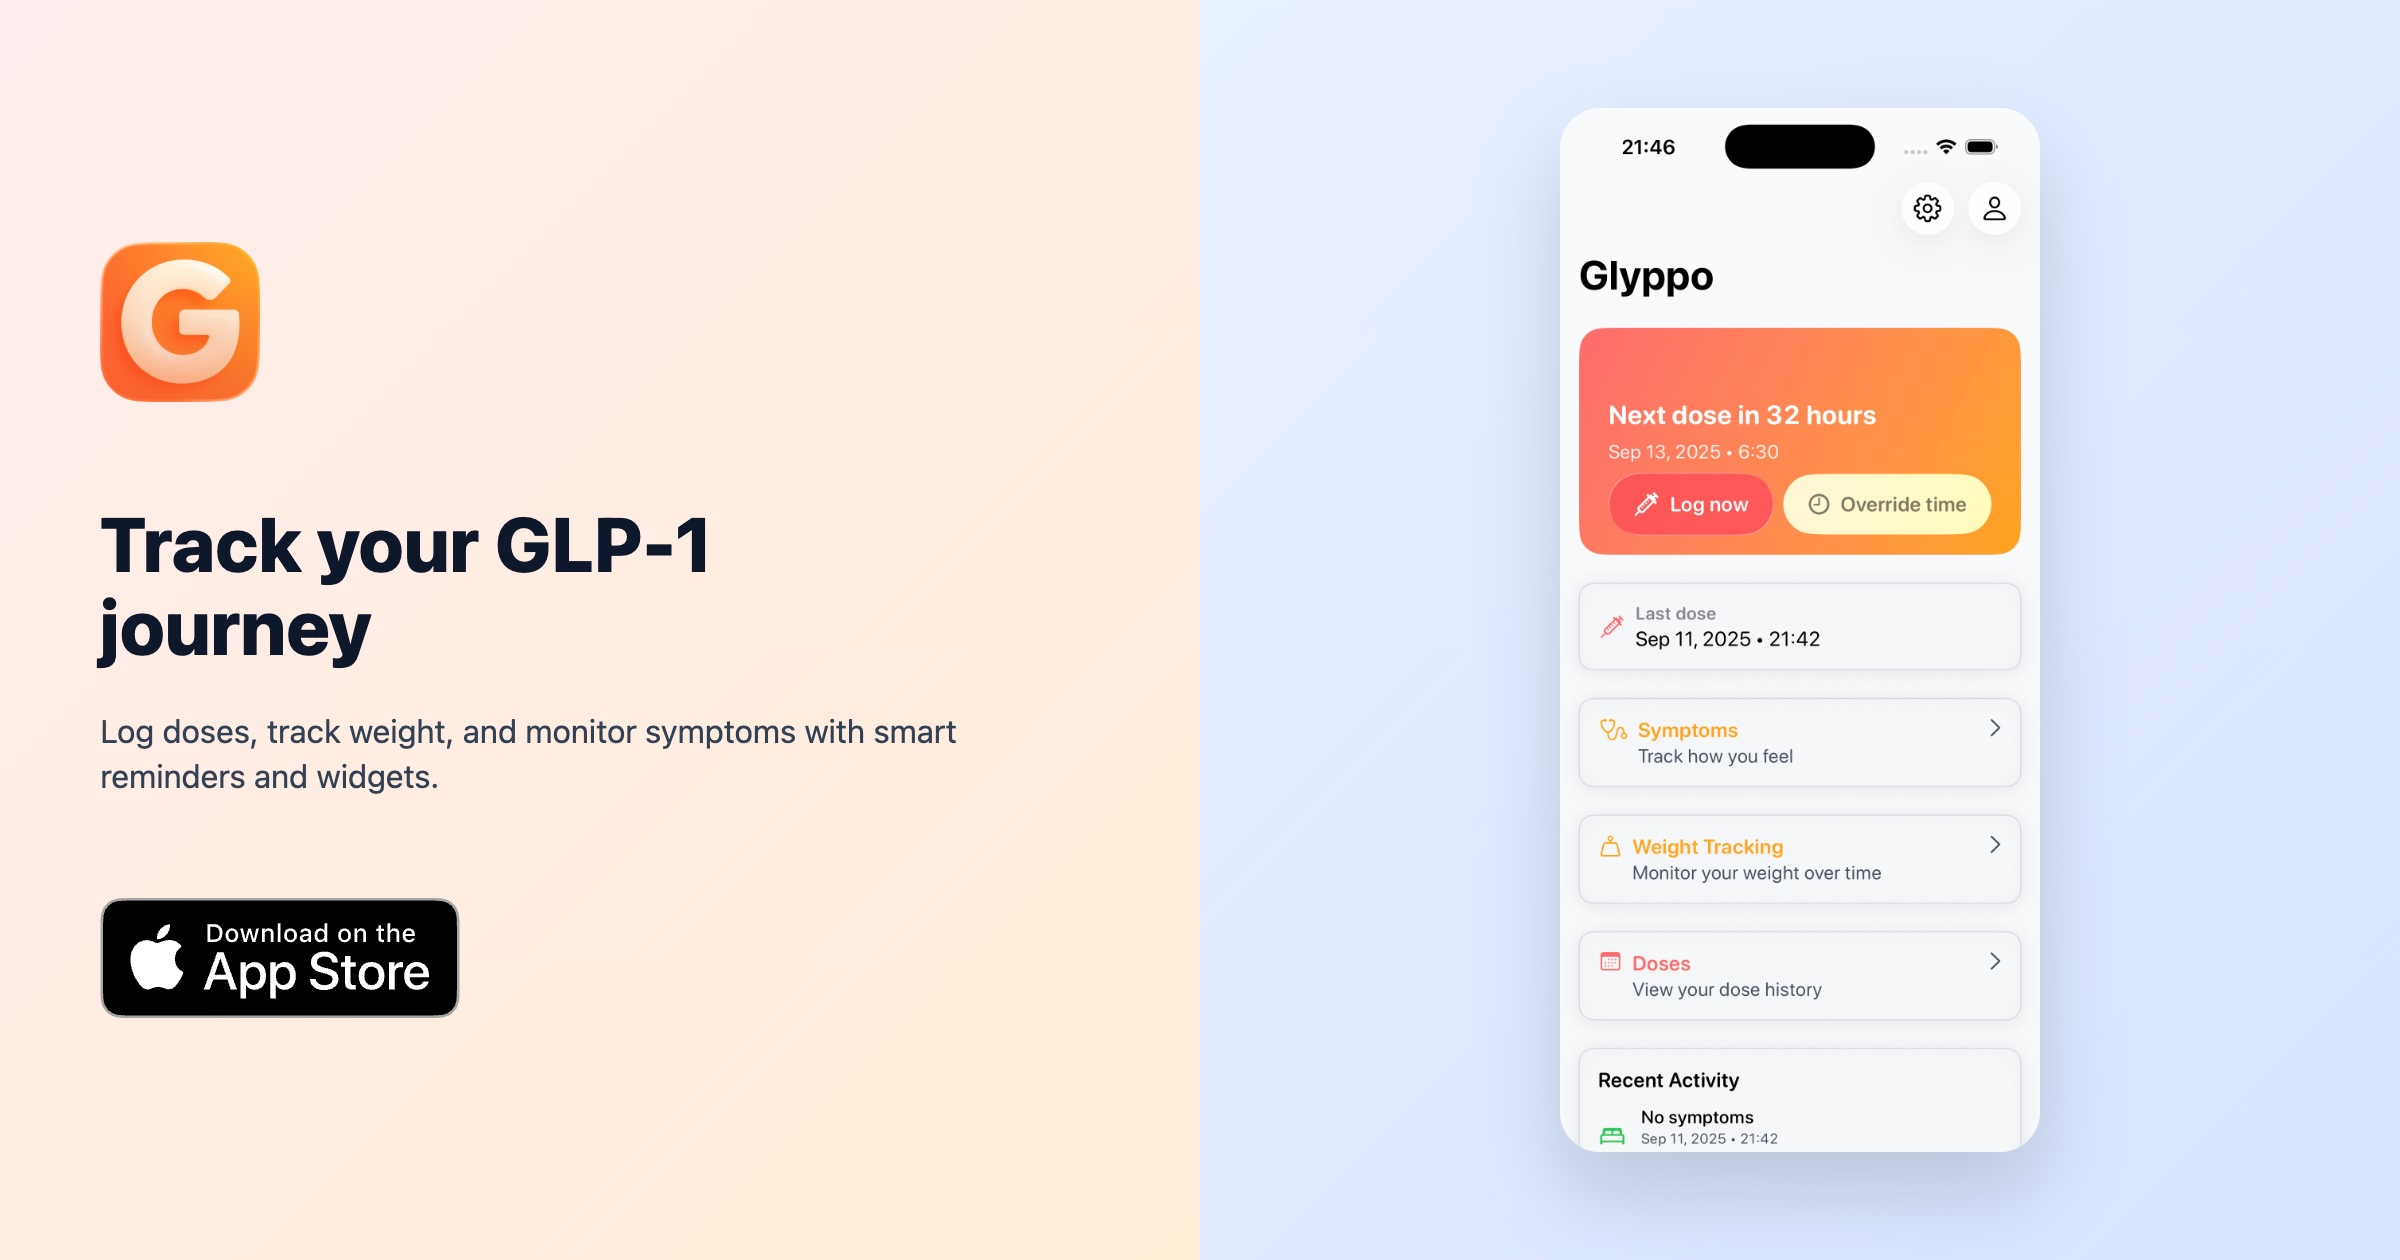
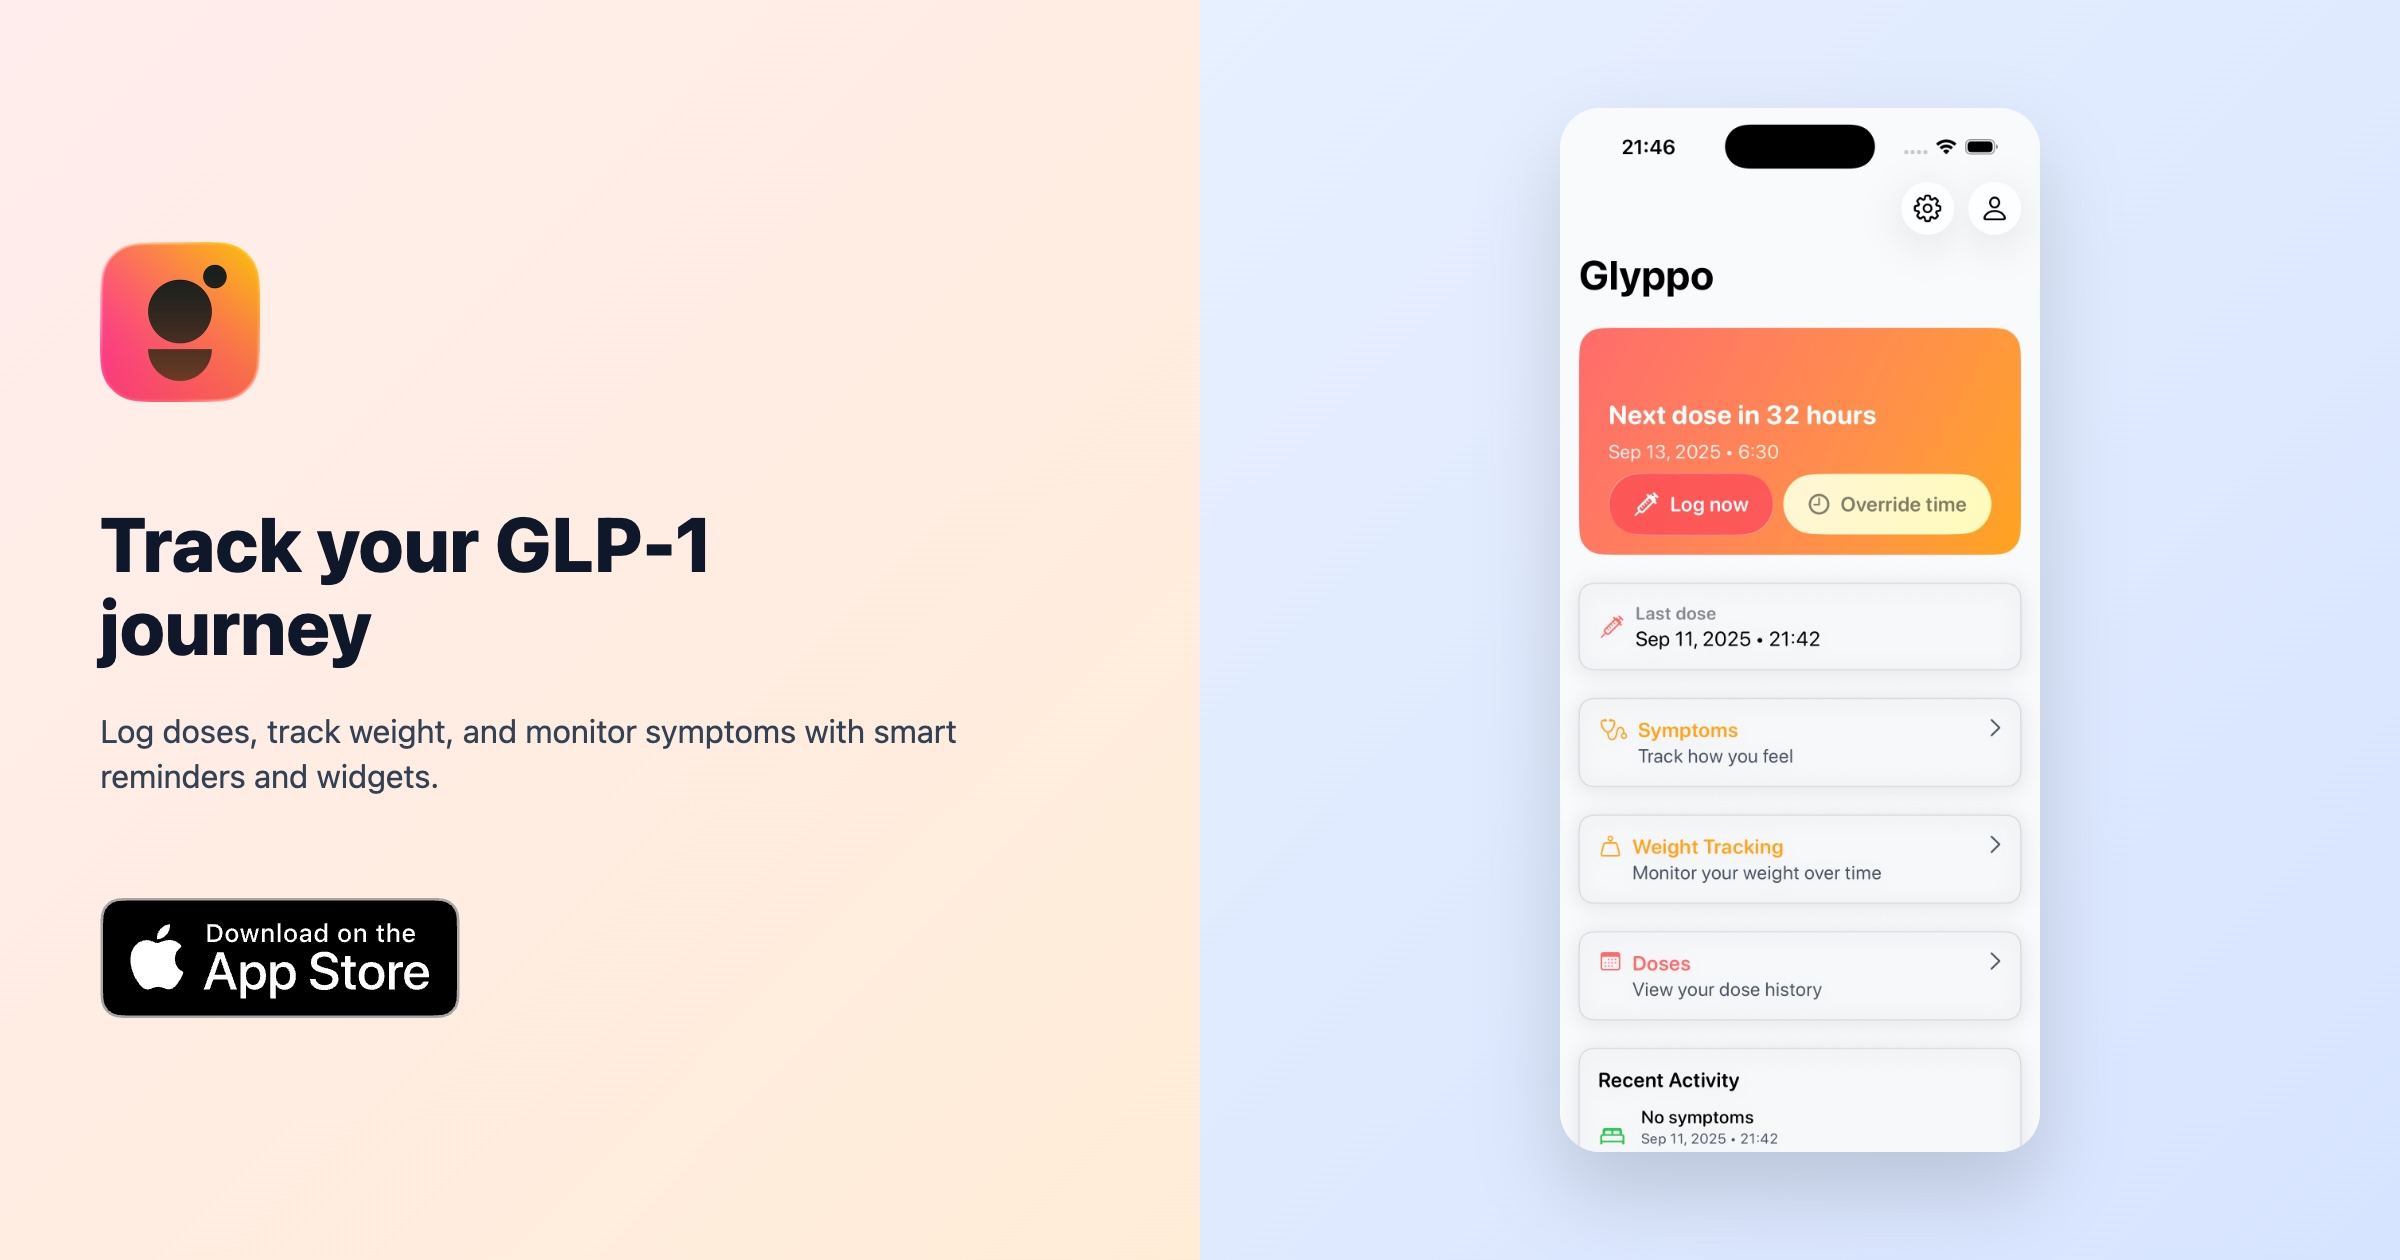
Update social media image references and page titles for Glyppo
- Updated app icon.
- Updated Open Graph and Twitter image URLs in 404.html and index.html to reflect the new image version.
- Changed the title in og-page.html and launch-promo.html for improved clarity and branding.

Changed region(s): [[0.0312, 0.1857, 0.125, 0.3405]]

diff --git a/index.html b/index.html
@@ -28,7 +28,7 @@
     <meta property="og:description" content="Stay consistent with doses, review your history, track weight and symptoms, and use widgets to see what's next." />
     <meta property="og:type" content="website" />
     <meta property="og:url" content="https://slowbrewedmacchiato.github.io/getglyppo/" />
-    <meta property="og:image" content="https://slowbrewedmacchiato.github.io/getglyppo/og-image.jpg?v=20250112" />
+    <meta property="og:image" content="https://slowbrewedmacchiato.github.io/getglyppo/og-image.jpg?v=20250914" />
     <meta property="og:image:width" content="1200" />
     <meta property="og:image:height" content="630" />
     <meta property="og:image:type" content="image/jpeg" />
@@ -37,7 +37,7 @@
     <meta name="twitter:card" content="summary_large_image" />
     <meta name="twitter:title" content="Glyppo — GLP‑1 shot, weight loss, and symptom tracking" />
     <meta name="twitter:description" content="Log doses in seconds, review history, track weight and symptoms, and always know your next dose." />
-    <meta name="twitter:image" content="https://slowbrewedmacchiato.github.io/getglyppo/og-image.jpg?v=20250112" />
+    <meta name="twitter:image" content="https://slowbrewedmacchiato.github.io/getglyppo/og-image.jpg?v=20250914" />
 
     <!-- Styles -->
     <link rel="stylesheet" href="styles.css" />

diff --git a/404.html b/404.html
@@ -18,7 +18,7 @@
     <meta property="og:description" content="The page you're looking for doesn't exist. Redirecting to the homepage." />
     <meta property="og:type" content="website" />
     <meta property="og:url" content="https://slowbrewedmacchiato.github.io/getglyppo/404.html" />
-    <meta property="og:image" content="https://slowbrewedmacchiato.github.io/getglyppo/og-image.jpg?v=20250112" />
+    <meta property="og:image" content="https://slowbrewedmacchiato.github.io/getglyppo/og-image.jpg?v=20250914" />
     <meta property="og:image:width" content="1200" />
     <meta property="og:image:height" content="630" />
     <meta property="og:image:type" content="image/jpeg" />
@@ -27,7 +27,7 @@
     <meta name="twitter:card" content="summary_large_image" />
     <meta name="twitter:title" content="Page Not Found — Glyppo" />
     <meta name="twitter:description" content="The page you're looking for doesn't exist. Redirecting to the homepage." />
-    <meta name="twitter:image" content="https://slowbrewedmacchiato.github.io/getglyppo/og-image.jpg?v=20250112" />
+    <meta name="twitter:image" content="https://slowbrewedmacchiato.github.io/getglyppo/og-image.jpg?v=20250914" />
     <link rel="stylesheet" href="styles.css" />
     <script src="https://cdn.tailwindcss.com"></script>
   </head>

diff --git a/launch/launch-promo.html b/launch/launch-promo.html
@@ -3,7 +3,7 @@
   <head>
     <meta charset="utf-8" />
     <meta name="viewport" content="width=device-width, initial-scale=1" />
-    <title>Glyppo — Launch Promotional Layout</title>
+    <title>Glyppo App: Launch Promotional Layout</title>
     <link rel="stylesheet" href="launch-style.css" />
   </head>
   <body>

diff --git a/og-page.html b/og-page.html
@@ -3,7 +3,7 @@
   <head>
     <meta charset="utf-8" />
     <meta name="viewport" content="width=device-width, initial-scale=1" />
-    <title>Glyppo — Social Share Image</title>
+    <title>Glyppo App: Social Share Image</title>
     <link rel="stylesheet" href="og-style.css" />
   </head>
   <body>
